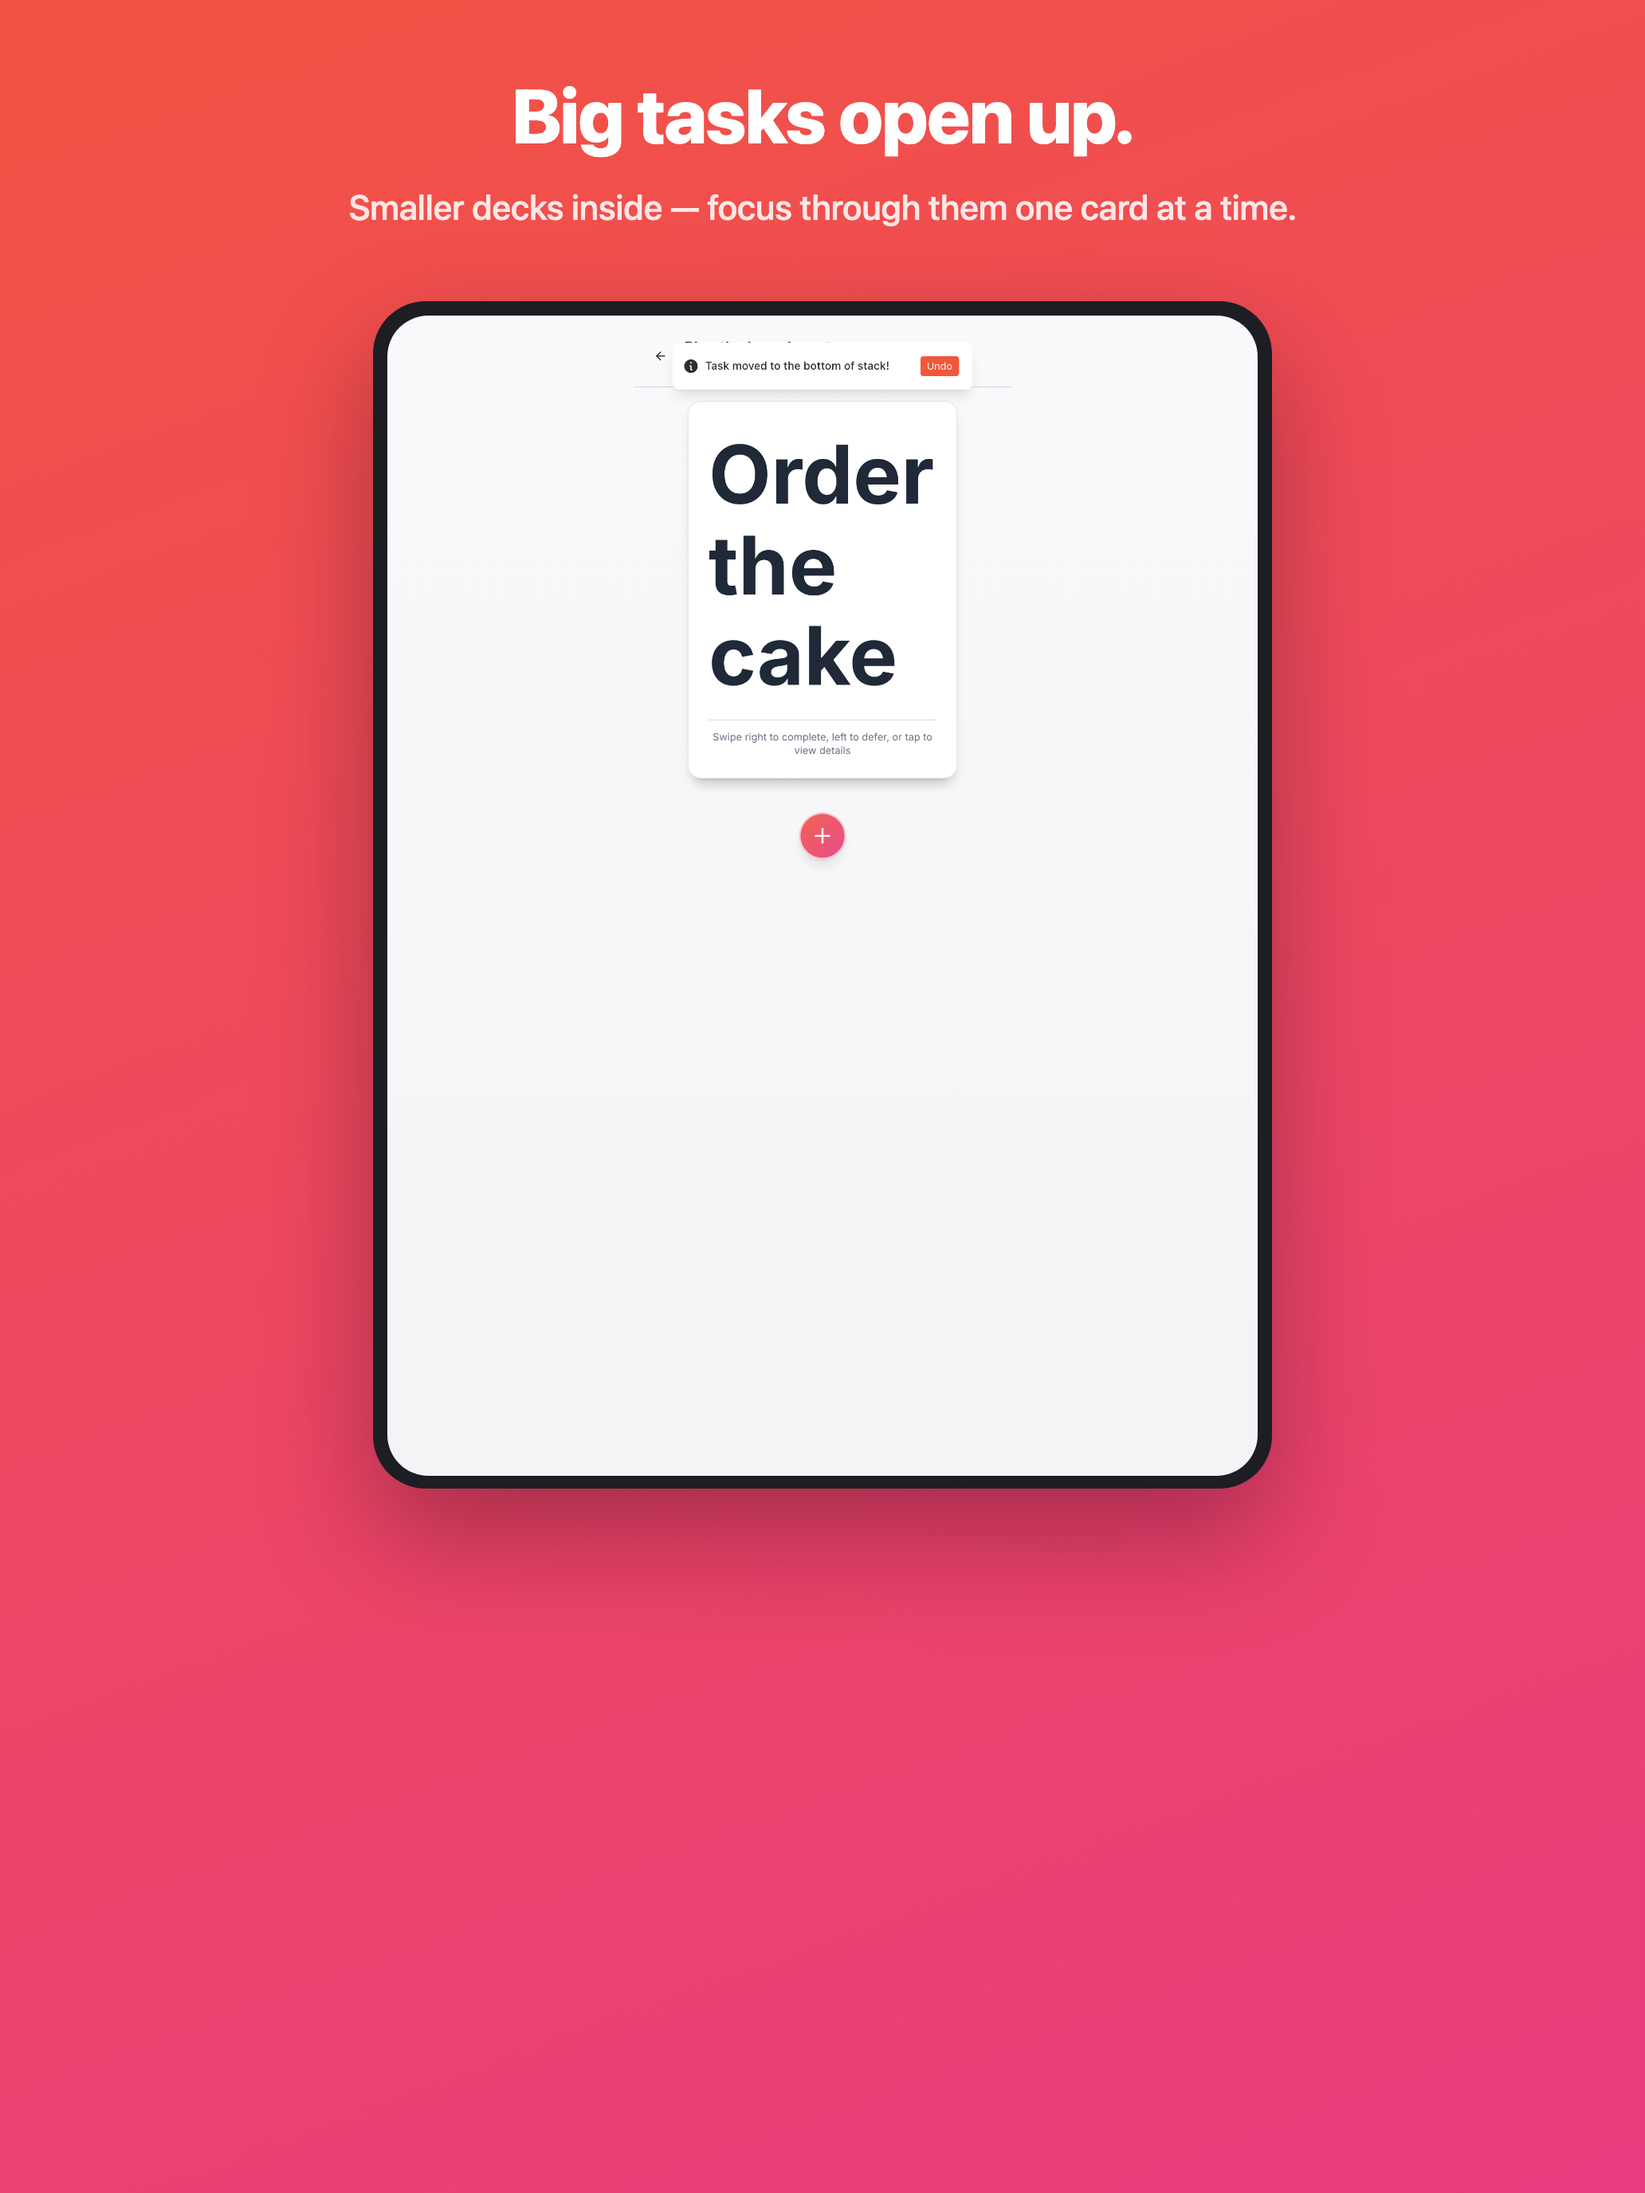
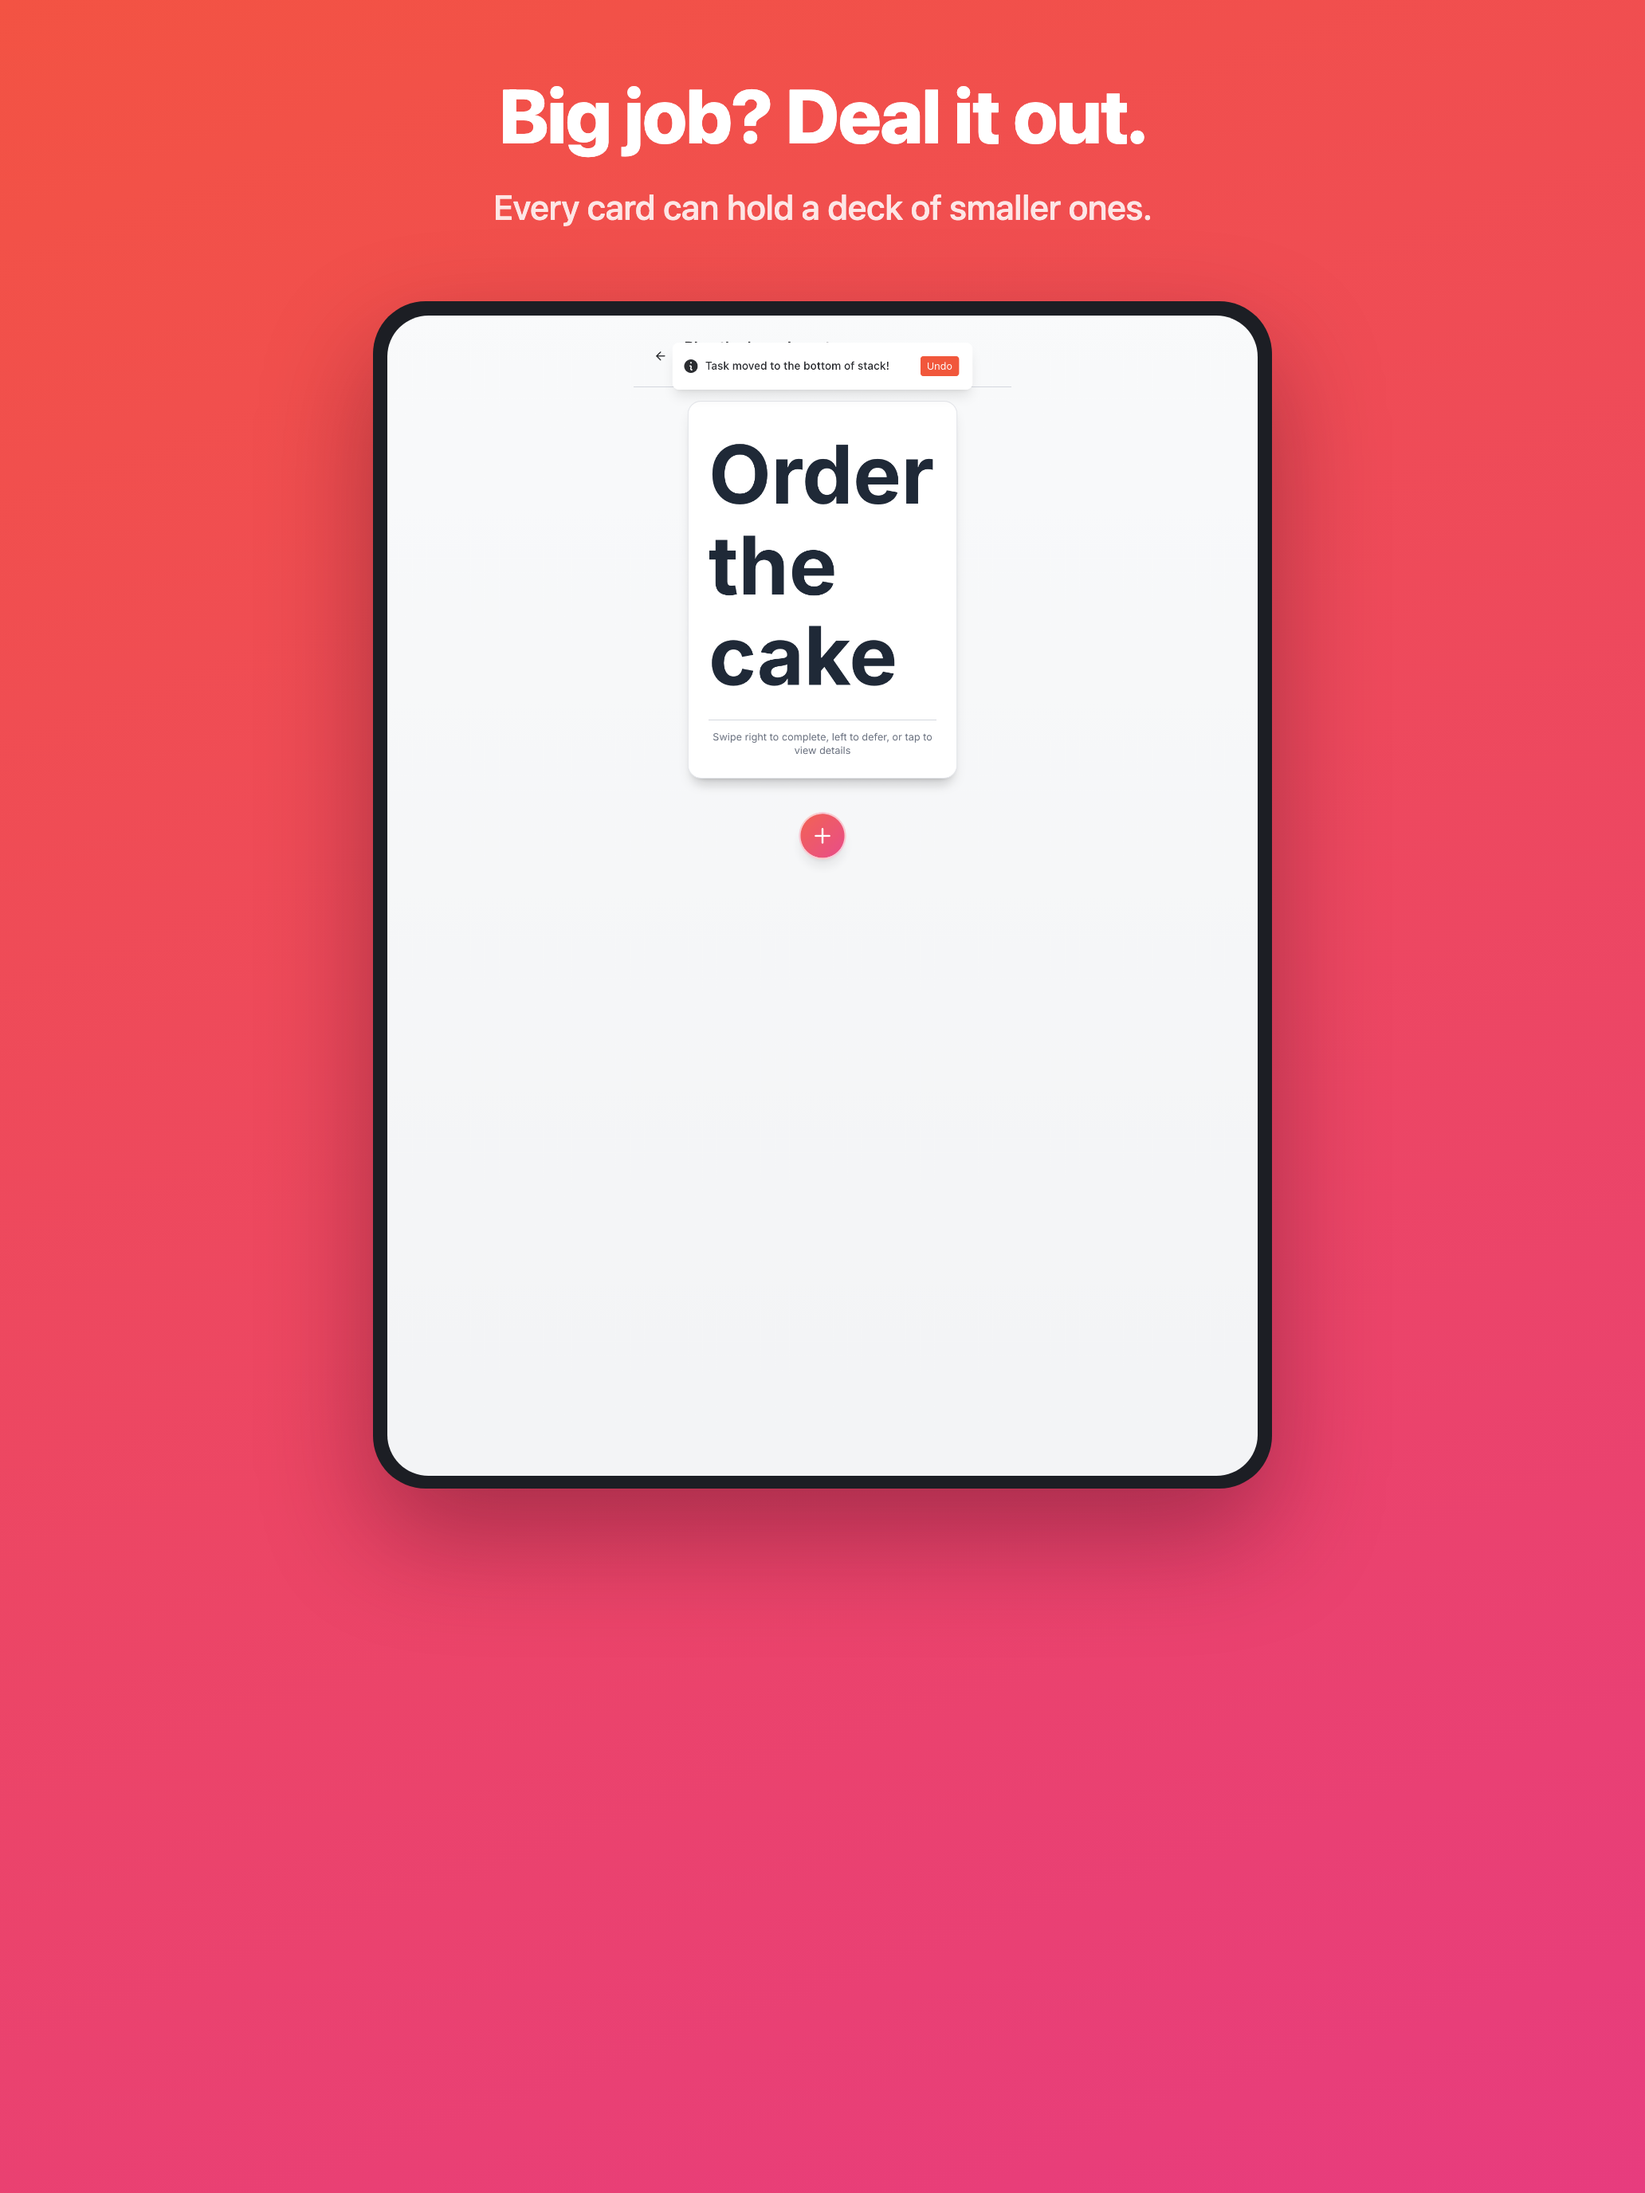
Captions: merge Relay's headlines with sublines into one rendered slate; re-compose

Changed region(s): [[0.3101, 0.0312, 0.7132, 0.125], [0.2171, 0.0938, 0.2791, 0.125], [0.7442, 0.0938, 0.7752, 0.125]]

diff --git a/development/coral-logs/2026-07-31-coral-log.md b/development/coral-logs/2026-07-31-coral-log.md
@@ -208,3 +208,13 @@ DRAFT captions (install sheet = first three = the whole pitch) await
 Xian's wordsmithing; Figma noted as the alternative canvas if he wants
 design iteration there (connector present, unauthenticated).
 Full run: capture → compose = two commands, both re-runnable free.
+
+### (Aug 4, evening) Caption slates merged — Relay's headlines win
+Relay drafted captions in parallel (benign collision — both of us saw
+the same gap). Theirs are better where it counts: "This is your whole
+to-do list." provokes the question the screenshot answers, and their
+install-sheet arc (premise → gesture → first objection, then reassure)
+is real craft. Merged: their headlines + my sublines, ONE rendered
+slate for Xian instead of two competing sets; alternates preserved in
+LISTING. Re-composed both device sets. Credit where due — the Cowork
+agent out-wrote me on the marketing line.

diff --git a/store/LISTING.md b/store/LISTING.md
@@ -145,3 +145,12 @@ as a thin bar at this height. Options, Xian's call:
 (b) scale card geometry up at tablet breakpoints (cheap, cosmetic);
 (c) the real answer is R2's canvas — 13" is where multiple decks
 side-by-side stops being a metaphor. Not a 1.0 blocker either way.
+
+### Rendered slate (Coral, 2026-08-04) — Relay's headlines + Coral's sublines
+
+The composed canvases in `store/screenshots/staging-2026-08-04/composed/`
+render a MERGED slate: Relay's headline set (the stronger of the two
+parallel drafts — 01 provokes the question the screenshot answers; the
+install-sheet arc runs premise → gesture → first objection) with short
+supporting sublines. Alternates remain in Relay's table above. All of it
+awaits Xian's wordsmithing; edits are one line + one command.
